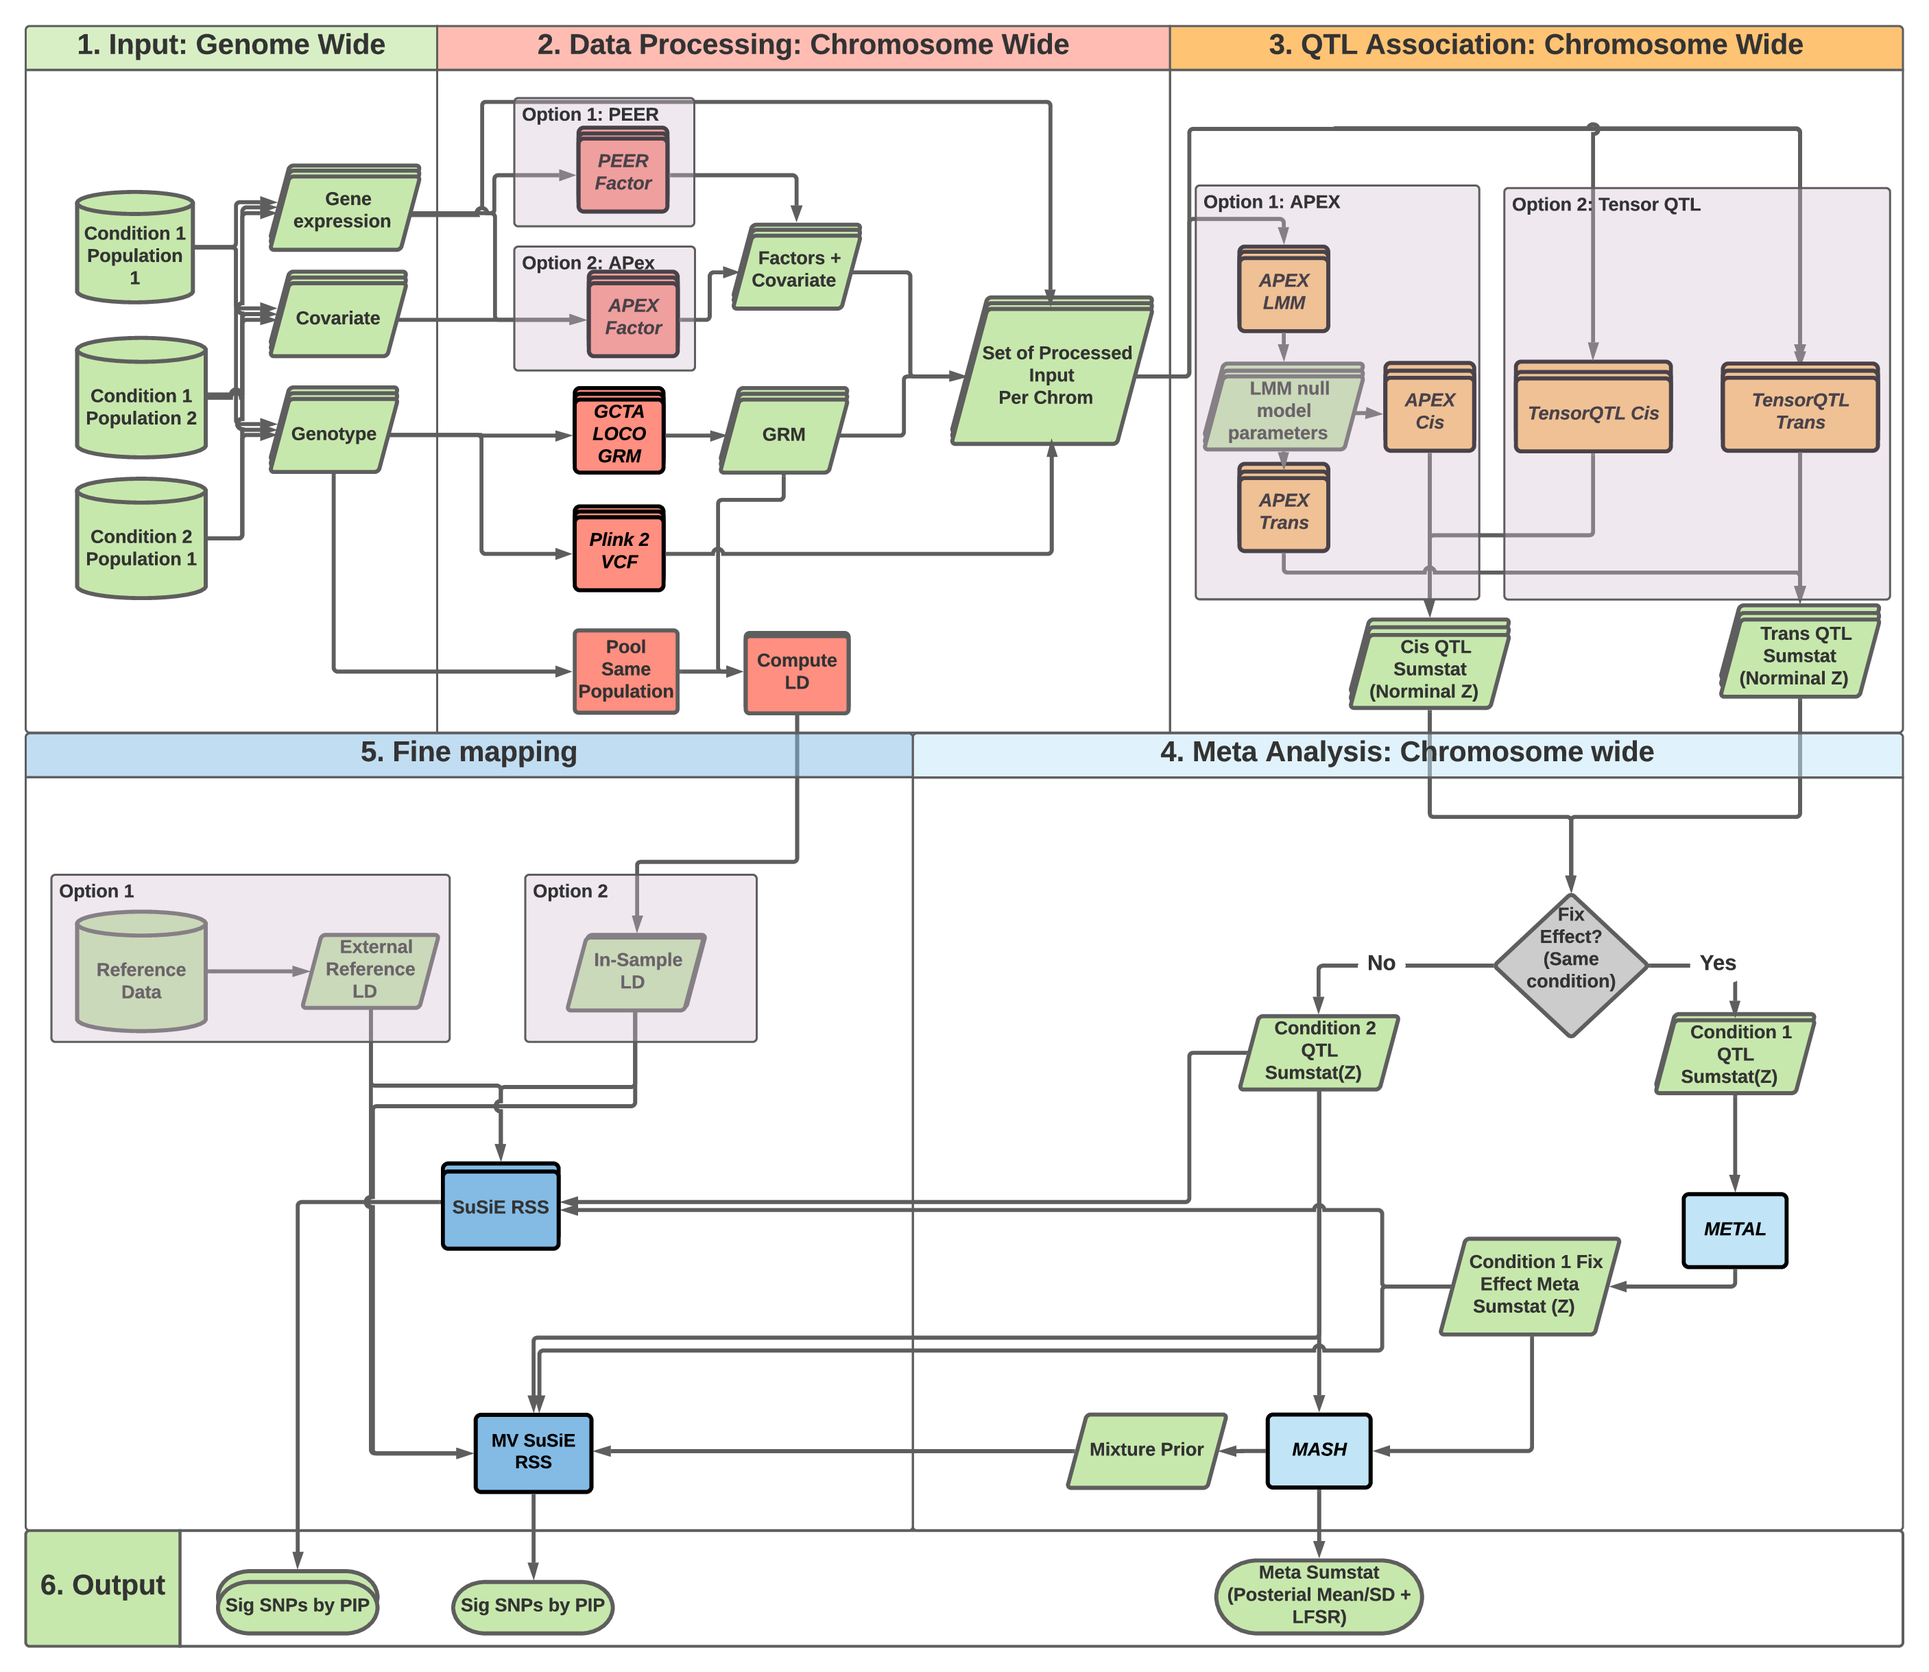
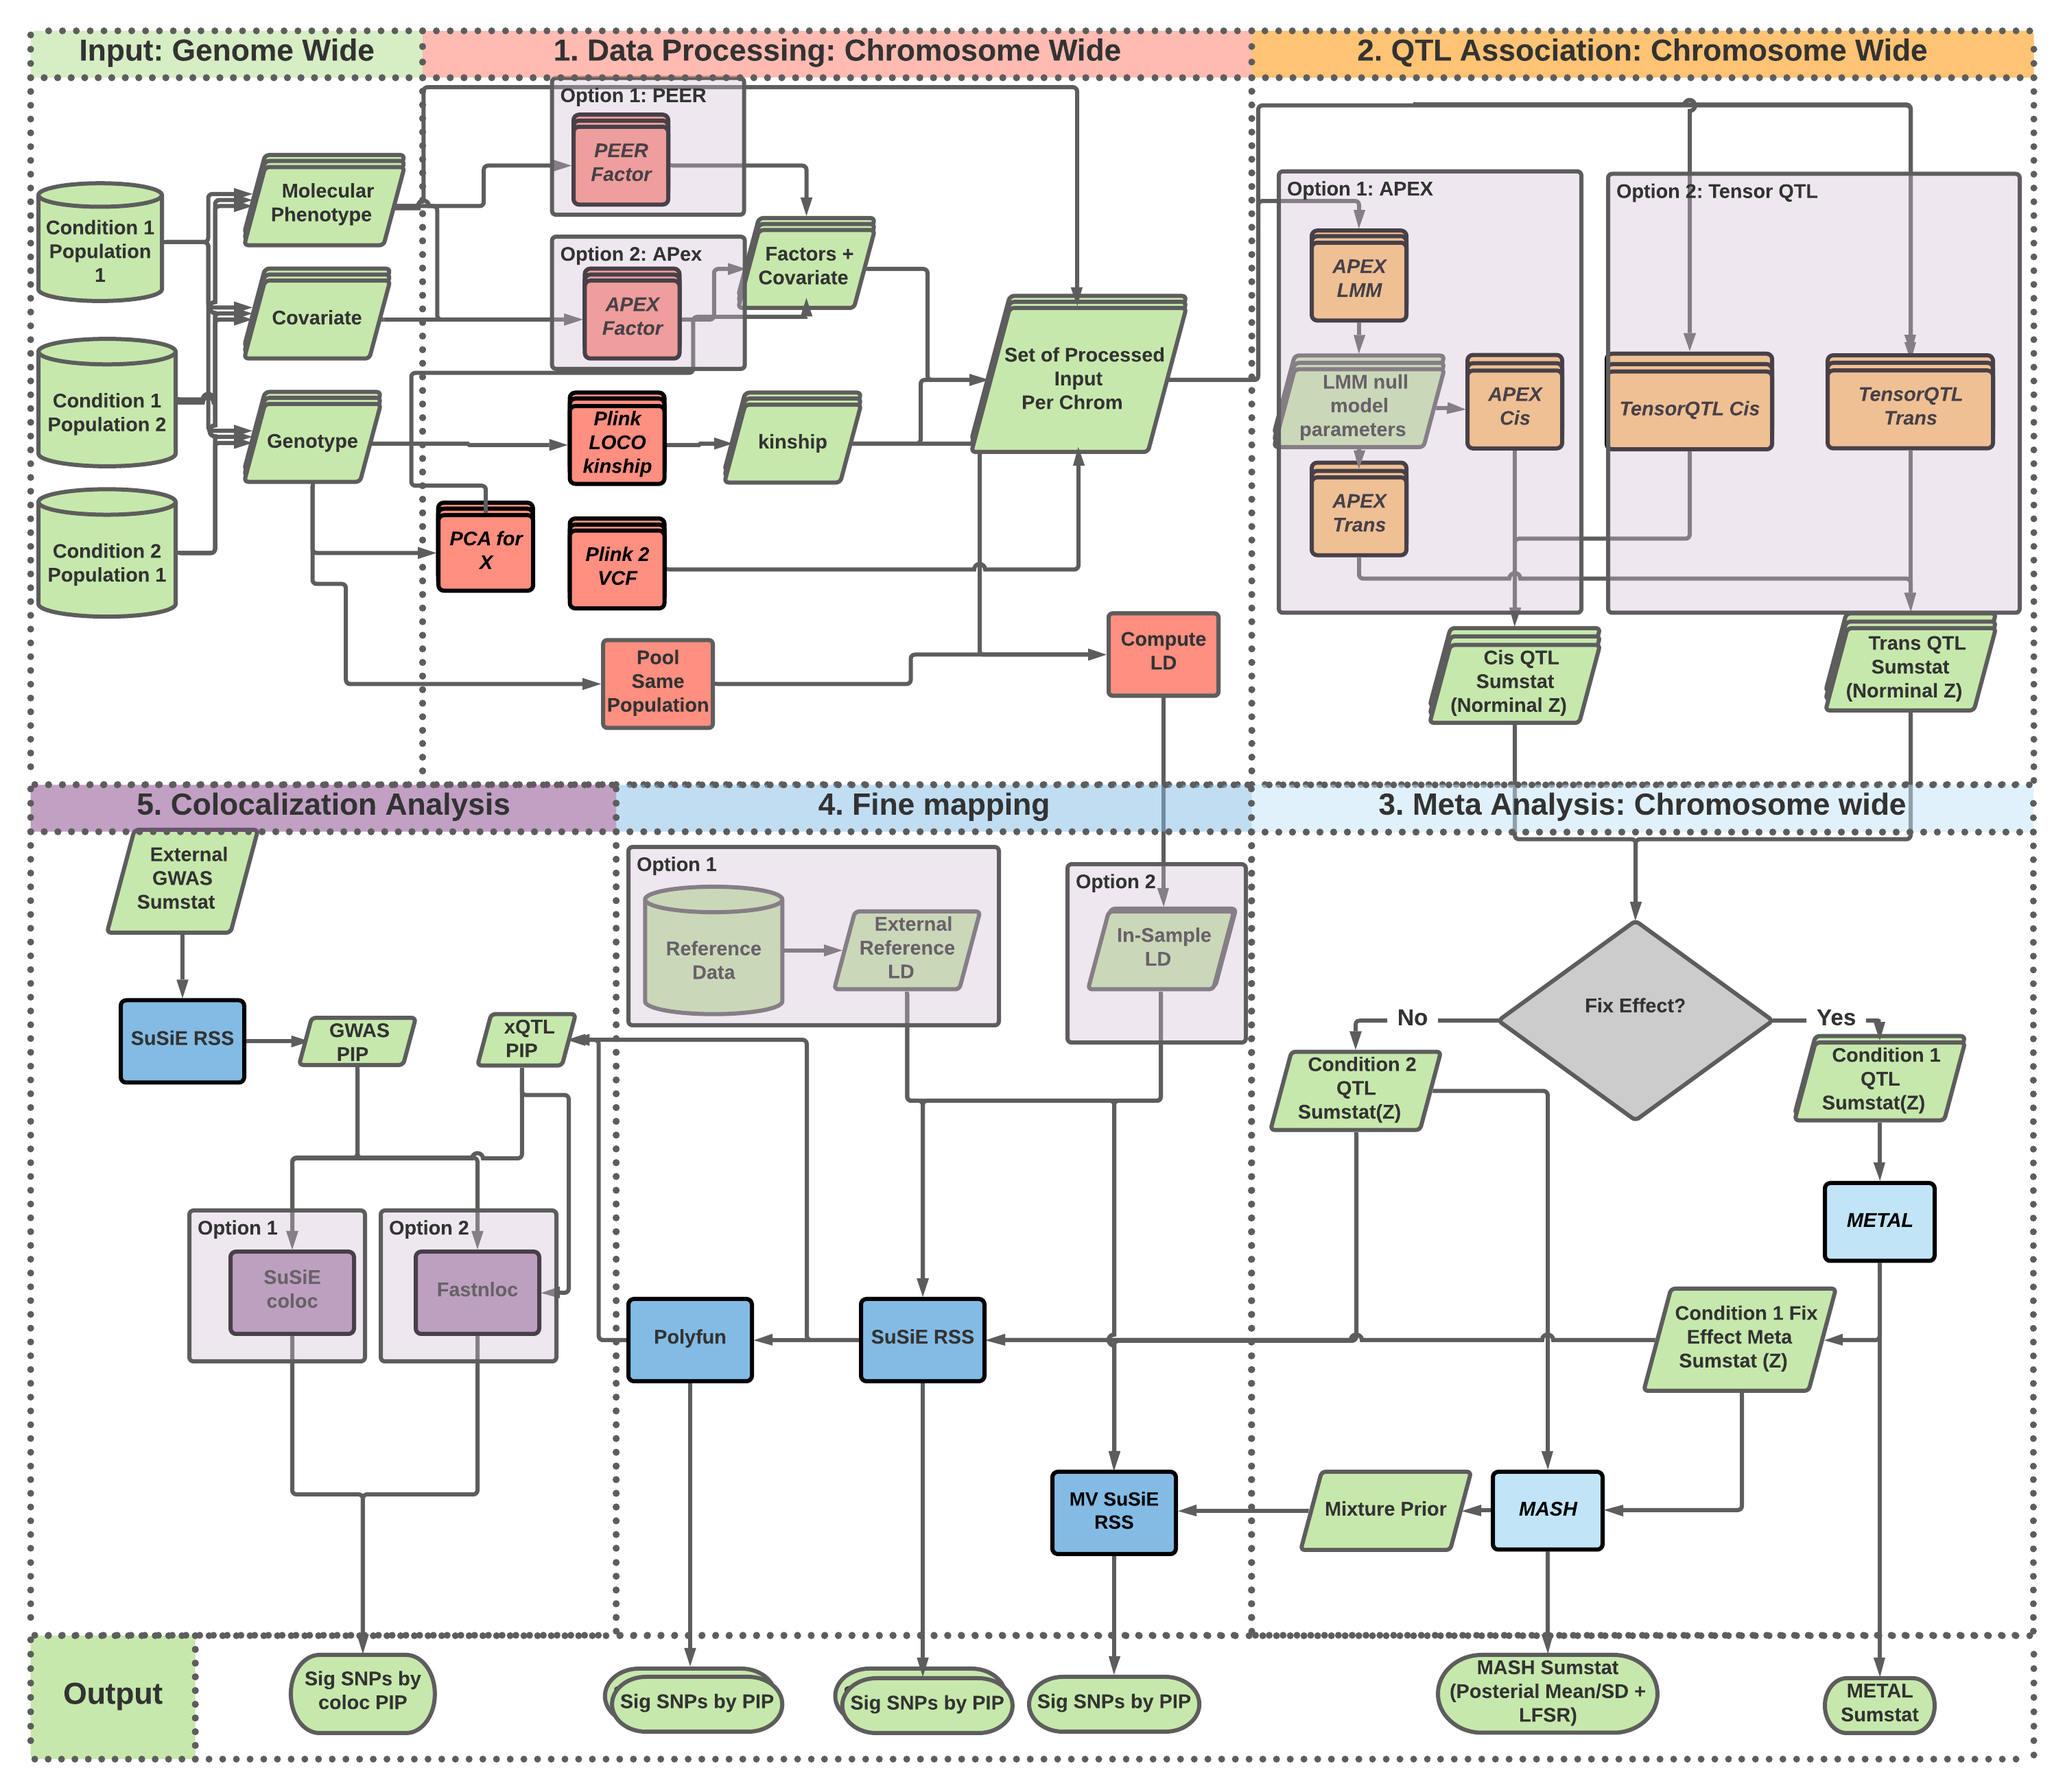
Update README

diff --git a/README.md b/README.md
@@ -1,25 +1,28 @@
 # xQTL analysis pipeline
 
-Developed for reproducible QTL analysis for the NIH/NIA Alzheimer's Disease Sequencing Project Functional Genomics Consortium
-
-https://cumc.github.io/xqtl-pipeline
+Developed for reproducible QTL analysis for the NIH/NIA Alzheimer's Disease Sequencing Project Functional Genomics Consortium.
 
 ## How to use this resource
 
-The left sidebar lists the analysis to be performed for QTL analysis, roughly in sequential orders.
+Pipelines in this repository are written in the [Script of Scripts (SoS) workflow language](https://vatlab.github.io/sos-docs/). Like most other workflow languages, SoS workflows can **distribute and execute computing jobs directly in High Performance Computing cluster**. It can also use **containers (Docker or Singularity)** to help with setting up computational environment and improve reproducibility. Unlike most other workflow languages, SoS workflows are created using SoS Notebooks (based on Ipython Notebook and developed in [Jupyter](https://jupyter.org/)) which allow for both **scientific narrative and pipeline scripts in the same document**. Unlike typical Jupyter Notebooks intended for interactive data analysis, SoS workflows written in Jupyter Notebooks can be executed directly as command line scripts either on a local computer or in a HPC environment. 
 
-- The **COMPLETE PIPELINES** section is reserved for publishing the code used for various QTL analysis. Contents in this section can be generated automatically from workflow notebooks in the other sections, as will be discussed next.
-- The rest sections in bold are various types of analysis available, from generating the molecular phenotypes to performing some of the selected multi-omics data integration analysis.
-- Text under each bold section title shows the complete workflow commands to perform analysis implemented using the Script of Scripts (SoS) language, as will be discussed next.
-- The workflows can be expanded by clicking on the down arrows to check out the SoS workflows implementing each task as an analysis module. These are the core pipeline implementations. Each of these pipeline modules are documented with some background information, required input, expected output, and a minimal working example, followed by the actual code implementation.
+### Source code
 
-## Overall xQTL workflow schema
+- Source code of pipelines and containers implemented in this repository are available at https://github.com/cumc/xqtl-pipeline/tree/main/pipeline. 
+- Container configurations are available at https://github.com/cumc/xqtl-pipeline/tree/main/container
+
+### Organization of the resource
+
+The website https://cumc.github.io/xqtl-pipeline is generated from files under `pipeline` folder of the source code repository. The logic of the entire xQTL analysis workflow is roughly reflected on the side bar:
+
+- The **COMPLETE PIPELINES** section is reserved for "push botton" commands that generates the entire QTL analysis pipeline workflow code from a configuration file. Notebooks under this sections are meant to be **executed in command line**. The generated commands can be executed as is to complete all available analysis, or can be used to help customizing specific analysis tasks. The configuration file itself helps centralized control and book keeping of workflows executed.
+- Other sections in bold contain various types of analysis available, roughly showing from upstream to downstream analysis in order. We will refer to them as ***analysis groups***, which are further divided into ***analysis subgroups*** by links to notebooks under each analysis group. These notebooks illustrate commands to perform analysis implemented in the group. Most of them are "tutorials" in nature and are meant to be **executed interactively in Jupyter** to run the SoS pipelines line by line. A few are the actual ***analysis modules*** implementing pipelines in SoS, as will be discussed next.
+- *Analysis subgroups* can be expanded by clicking on the down arrows to access the SoS workflows implemention of ***pipeline modules***. These are the core pipeline implementations to be **executed in command line**, and are meant to be **self-contained** --- they may be used in other contexts not specific to the xQTL data analysis. Each of these pipeline modules are documented with some background information, required input, expected output, and most importantly a **minimal working example** to allow users to test it out with a toy data-set before applying to their own analysis. The rest of the pipeline module are the actual code implementations.
+
+## xQTL workflow blueprint
 
 ![QTL Diagram](images/complete_workflow.png)
 
-## Genotype, phenotype and covariates data preprocessing workflow schema
-
-![Data preprocessing diagram](images/data_preprocessing.png)
 
 ## Contributors
 
@@ -38,11 +41,3 @@ Brain xQTL methods and analysis subgroup
 - Amanda Tsai, Department of Biostatistics, Columbia University  
 - Xiaoling Zhang, Departments of Medicine and Biostatistics, Boston University
 - Gao Wang (group leader), Department of Neurology, Columbia University
-
-### Consortium collaborators
-
-Single-cell nucleotide RNA-seq
-
-- 
-
-- 
